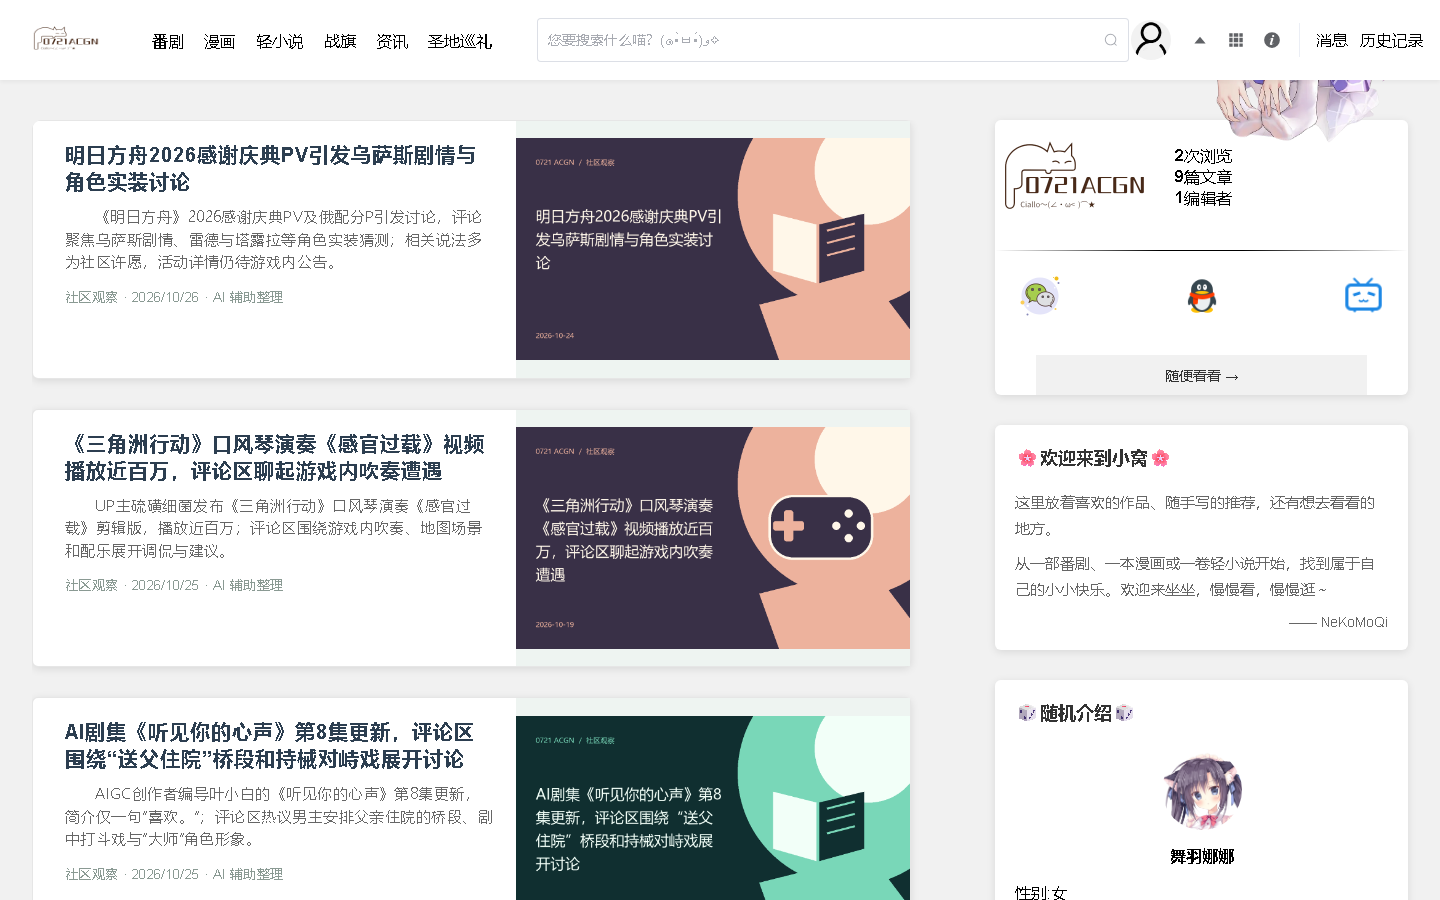
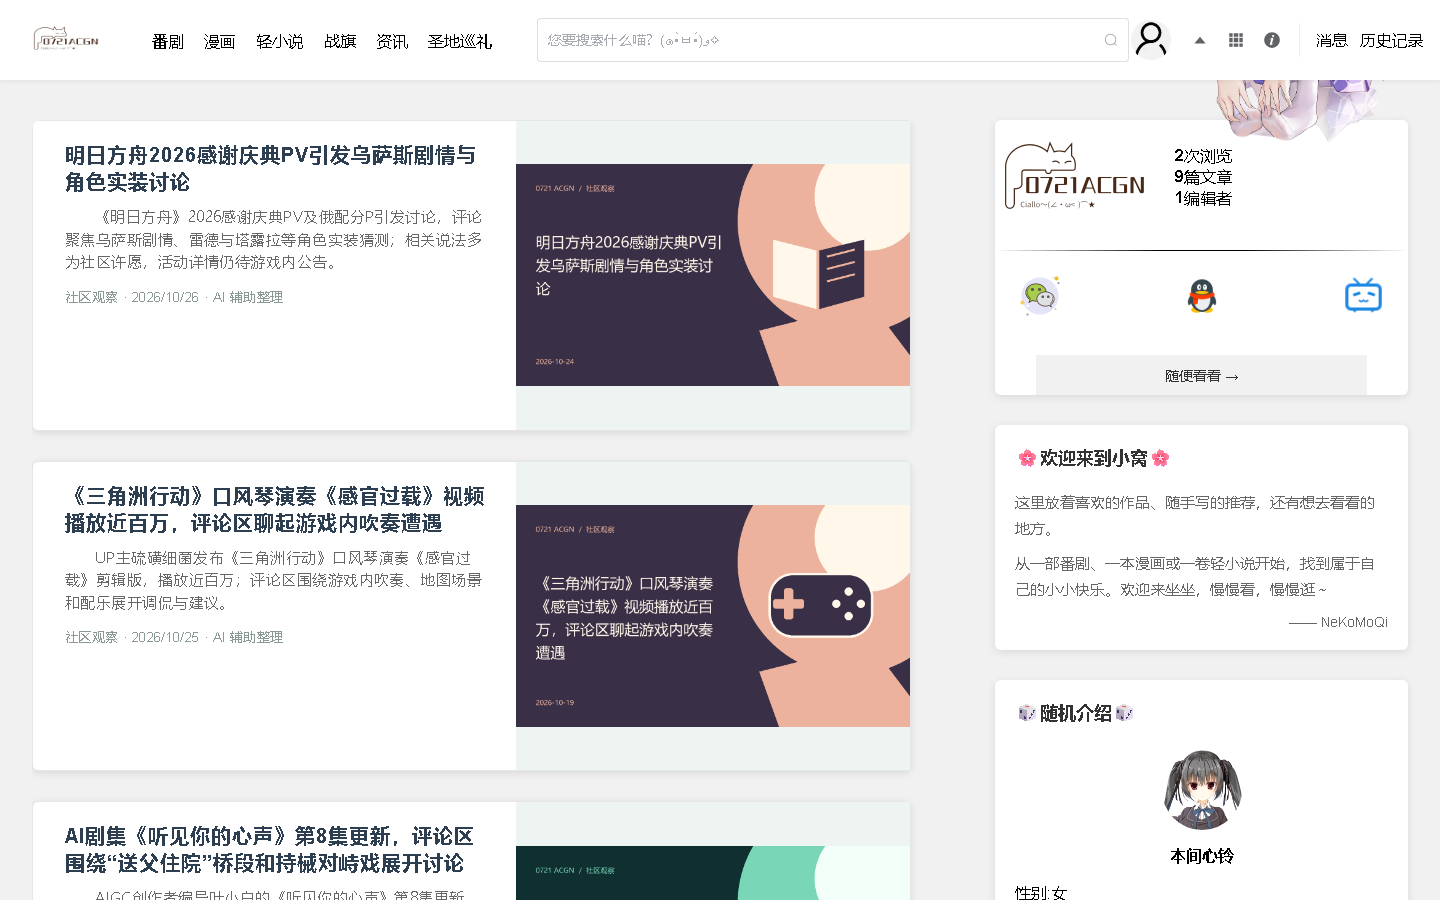
fix: 清掉首页遗留的几处小毛病
- shengdi/addnew.vue：删掉嵌在样式块里的多余 <style scoped>，
  这是构建时 "Unexpected <" CSS 压缩警告的根因
- App.vue：改成自己按需加载 Live2D SDK，加载失败就隐藏画布，
  不再往控制台抛 "Live2D SDK is not loaded"
- utils/live2d-loader.ts：注释里的 GBK 乱码换成正常中文，逻辑未动
- view/main/index.vue：去掉首页两处调试 console.log
- 删除 public/json/name.json（内容为 {name:lihua, password:123456} 的演示文件）

Changed region(s): [[0.0312, 0.4667, 0.6562, 1.0], [0.0312, 0.1556, 0.6562, 0.4356], [0.8125, 0.84, 0.875, 0.9644]]

diff --git a/frontend/src/App.vue b/frontend/src/App.vue
@@ -8,11 +8,15 @@
 import { computed, nextTick, ref, watch } from 'vue';
 import { useRoute } from 'vue-router';
 import LoginDialog from '@/components/LoginDialog.vue';
+import { loadLive2DScript } from '@/utils/live2d-loader';
 
 const route = useRoute();
 const live2dInitialized = ref(false);
+/** SDK 或模型加载失败时不再显示空画布，也不再往控制台抛错。 */
+const live2dAvailable = ref(true);
 
 const showGlobalLive2D = computed(() => {
+  if (!live2dAvailable.value) return false;
   return !route.path.startsWith('/warflag') && !route.path.startsWith('/shengdi');
 });
 
@@ -31,26 +35,13 @@ function cleanupGlobalLive2D({ includeCanvas = false } = {}) {
 }
 
 async function mountGlobalLive2D() {
-  if (live2dInitialized.value) return;
+  if (live2dInitialized.value || !live2dAvailable.value) return;
   await nextTick();
   if (!document.getElementById('live2d')) return;
 
-  const live2dWindow = window as typeof window & {
-    initializeLive2D?: (config: Record<string, unknown>) => Promise<void>;
-    hideMessageBox?: unknown;
-    revealMessageBox?: unknown;
-    setExpression?: unknown;
-    setRandomExpression?: unknown;
-    setMessageBox?: unknown;
-  };
-
-  if (!live2dWindow.initializeLive2D) {
-    console.error('Live2D SDK is not loaded. Check index.html script imports.');
-    return;
-  }
-
   try {
-    await live2dWindow.initializeLive2D({
+    const live2d = await loadLive2DScript();
+    await live2d.initializeLive2D({
       CanvasId: 'live2d',
       BackgroundRGBA: [0.0, 0.0, 0.0, 0.0],
       ResourcesPath: './models/cat/sdwhite cat free.model3.json',
@@ -61,18 +52,13 @@ async function mountGlobalLive2D() {
       ShowToolBox: true,
       CanvasPosition: 'right',
       LoadFromCache: true,
+      Live2dCubismcoreUrl: '/live2dcubismcore.min.js',
     });
 
     live2dInitialized.value = true;
-    console.log('Global Live2D initialized.', {
-      hideMessageBox: live2dWindow.hideMessageBox,
-      revealMessageBox: live2dWindow.revealMessageBox,
-      setExpression: live2dWindow.setExpression,
-      setRandomExpression: live2dWindow.setRandomExpression,
-      setMessageBox: live2dWindow.setMessageBox,
-    });
   } catch (error) {
-    console.error('Global Live2D initialization failed:', error);
+    live2dAvailable.value = false;
+    console.warn('看板娘没能加载，已隐藏画布：', error);
   }
 }
 

diff --git a/frontend/src/utils/live2d-loader.ts b/frontend/src/utils/live2d-loader.ts
@@ -8,13 +8,12 @@ export interface Live2DRenderApi {
   revealMessageBox?: () => void
 }
 
-// 动�?�加�?UMD 模块的辅助函�
+/** 动态挂载 live2d-render 的 UMD bundle，加载好之后把 Live2dRender 交回去。 */
 export function loadLive2DScript(): Promise<Live2DRenderApi> {
   return new Promise((resolve, reject) => {
-    // 如果已经加载，直接返�
-if (window.Live2dRender) {
-      resolve(window.Live2dRender);
-      return;
+    if (window.Live2dRender) {
+      resolve(window.Live2dRender)
+      return
     }
 
     const existingScript = document.getElementById(LIVE2D_SCRIPT_ID) as HTMLScriptElement | null
@@ -26,24 +25,23 @@ if (window.Live2dRender) {
       return
     }
 
-    const script = document.createElement('script');
-    script.id = LIVE2D_SCRIPT_ID;
-    script.src = LIVE2D_SCRIPT_URL;
-    script.type = 'text/javascript';
-    
-    // 关键：添�?crossorigin 和正确处理加�
-script.onload = () => {
+    const script = document.createElement('script')
+    script.id = LIVE2D_SCRIPT_ID
+    script.src = LIVE2D_SCRIPT_URL
+    script.type = 'text/javascript'
+
+    script.onload = () => {
       if (window.Live2dRender) {
-        resolve(window.Live2dRender);
+        resolve(window.Live2dRender)
       } else {
-        reject(new Error('Live2dRender 未挂载到 window'));
+        reject(new Error('Live2dRender 未挂载到 window'))
       }
-    };
-    
-    script.onerror = () => reject(new Error('加载 live2d-render.bundle.js 失败'));
-    
-    document.head.appendChild(script);
-  });
+    }
+
+    script.onerror = () => reject(new Error('加载 live2d-render.bundle.js 失败'))
+
+    document.head.appendChild(script)
+  })
 }
 
 export async function mountShengdiLive2D(): Promise<void> {
@@ -84,6 +82,6 @@ export function cleanupLive2D(): void {
 // 类型声明
 declare global {
   interface Window {
-    Live2dRender?: Live2DRenderApi;
+    Live2dRender?: Live2DRenderApi
   }
 }

diff --git a/frontend/src/view/main/index.vue b/frontend/src/view/main/index.vue
@@ -341,7 +341,6 @@ const getpage=async()=>{
 }
 const loadpage = () => {
   if(isloading.value||!hasmore.value) return
-  console.log('到底了')
   isloading.value = true
   getpage()
 }
@@ -433,7 +432,6 @@ onMounted(async () => {
     liulan.value = p.liulan
     wenzhang.value = p.wenzhang
   }
-  console.log(rea.value)
 })
 const getDocumentHeight = () => {
   return Math.max(

diff --git a/frontend/src/view/shengdi/addnew.vue b/frontend/src/view/shengdi/addnew.vue
@@ -421,7 +421,6 @@ const save = () =>{
   position: relative;
 }
 
-<style scoped>
 /* 修改搜索框样式 */
 .search-input {
   padding-left: 45px !important;

diff --git a/newsroom/verify_live2d.py b/newsroom/verify_live2d.py
@@ -1,0 +1,53 @@
+"""检查 Live2D 看板娘：控制台是否还有 SDK 报错、canvas 是否真的画出来了。"""
+import json
+import sys
+from pathlib import Path
+
+from playwright.sync_api import sync_playwright
+
+BASE = "https://127.0.0.1/"
+OUT = Path(__file__).with_name("shots")
+OUT.mkdir(exist_ok=True)
+
+
+def main() -> int:
+    logs = []
+    with sync_playwright() as p:
+        browser = p.chromium.launch()
+        page = browser.new_context(ignore_https_errors=True, viewport={"width": 1440, "height": 900}).new_page()
+        page.on("console", lambda m: logs.append(f"{m.type}: {m.text}"))
+        page.on("pageerror", lambda e: logs.append(f"pageerror: {e}"))
+        page.goto(BASE, wait_until="networkidle", timeout=60000)
+        page.wait_for_timeout(6000)
+
+        info = page.evaluate(
+            """() => {
+              const c = document.getElementById('live2d');
+              let painted = false;
+              if (c && c.width && c.height) {
+                try {
+                  const ctx = c.getContext('2d');
+                  const data = ctx ? ctx.getImageData(0, 0, c.width, c.height).data : null;
+                  if (data) {
+                    for (let i = 3; i < data.length; i += 4) { if (data[i] > 0) { painted = true; break; } }
+                  }
+                } catch (e) { painted = 'read-failed'; }
+              }
+              return {
+                canvas: !!c,
+                size: c ? [c.width, c.height] : null,
+                sdkLoaded: !!window.Live2dRender,
+                painted,
+              };
+            }"""
+        )
+        page.screenshot(path=str(OUT / "verify-live2d.png"))
+        info["console"] = [l for l in logs if "Live2D" in l or "live2d" in l or l.startswith("pageerror")][:8]
+        info["consoleCount"] = len(logs)
+        print(json.dumps(info, ensure_ascii=False, indent=2))
+        browser.close()
+    return 0
+
+
+if __name__ == "__main__":
+    sys.exit(main())

diff --git a/newsroom/verify_live2d_box.py b/newsroom/verify_live2d_box.py
@@ -1,0 +1,45 @@
+"""对比隐藏 #live2d 画布前后的同一区域，确认右下角角色是 Live2D 画出来的还是静态图。"""
+import json
+import sys
+from pathlib import Path
+
+from PIL import Image, ImageChops
+from playwright.sync_api import sync_playwright
+
+BASE = "https://127.0.0.1/"
+OUT = Path(__file__).with_name("shots")
+OUT.mkdir(exist_ok=True)
+BOX = (1150, 560, 1440, 900)  # 右下角区域
+
+
+def main() -> int:
+    with sync_playwright() as p:
+        browser = p.chromium.launch()
+        page = browser.new_context(ignore_https_errors=True, viewport={"width": 1440, "height": 900}).new_page()
+        page.goto(BASE, wait_until="networkidle", timeout=60000)
+        page.wait_for_timeout(6000)
+        page.screenshot(path=str(OUT / "live2d-on.png"))
+        rects = page.evaluate(
+            """() => {
+              const r = (sel) => { const e = document.querySelector(sel); if (!e) return null;
+                const b = e.getBoundingClientRect(); return [Math.round(b.x), Math.round(b.y), Math.round(b.width), Math.round(b.height)]; };
+              return { canvas: r('#live2d'), tsg: r('.tsg'), toolbox: r('#live2d-toolbox') };
+            }"""
+        )
+        page.evaluate("() => { const c = document.getElementById('live2d'); if (c) c.style.visibility = 'hidden'; }")
+        page.wait_for_timeout(500)
+        page.screenshot(path=str(OUT / "live2d-off.png"))
+        browser.close()
+
+    on = Image.open(OUT / "live2d-on.png").convert("RGB").crop(BOX)
+    off = Image.open(OUT / "live2d-off.png").convert("RGB").crop(BOX)
+    diff = ImageChops.difference(on, off)
+    changed = sum(1 for px in diff.getdata() if px != (0, 0, 0))
+    total = on.size[0] * on.size[1]
+    print(json.dumps({**rects, "changedPixels": changed, "regionPixels": total,
+                      "changedRatio": round(changed / total, 3)}, ensure_ascii=False, indent=2))
+    return 0
+
+
+if __name__ == "__main__":
+    sys.exit(main())

diff --git a/newsroom/verify_live2d_net.py b/newsroom/verify_live2d_net.py
@@ -1,0 +1,33 @@
+"""看 Live2D 初始化过程中请求了哪些资源、哪些失败。"""
+import json
+import sys
+from pathlib import Path
+
+from playwright.sync_api import sync_playwright
+
+BASE = "https://127.0.0.1/"
+OUT = Path(__file__).with_name("shots")
+
+
+def main() -> int:
+    reqs, fails, errs = [], [], []
+    with sync_playwright() as p:
+        browser = p.chromium.launch()
+        page = browser.new_context(ignore_https_errors=True, viewport={"width": 1440, "height": 900}).new_page()
+        page.on("response", lambda r: reqs.append((r.status, r.url)) if ("models/" in r.url or "live2d" in r.url or "cubism" in r.url) else None)
+        page.on("requestfailed", lambda r: fails.append((r.failure or "?", r.url)))
+        page.on("console", lambda m: errs.append(f"{m.type}: {m.text[:200]}"))
+        page.on("pageerror", lambda e: errs.append(f"pageerror: {str(e)[:200]}"))
+        page.goto(BASE, wait_until="networkidle", timeout=60000)
+        page.wait_for_timeout(8000)
+        browser.close()
+    print(json.dumps({
+        "responses": reqs[-25:],
+        "failed": fails[-10:],
+        "console": errs[-12:],
+    }, ensure_ascii=False, indent=2))
+    return 0
+
+
+if __name__ == "__main__":
+    sys.exit(main())
